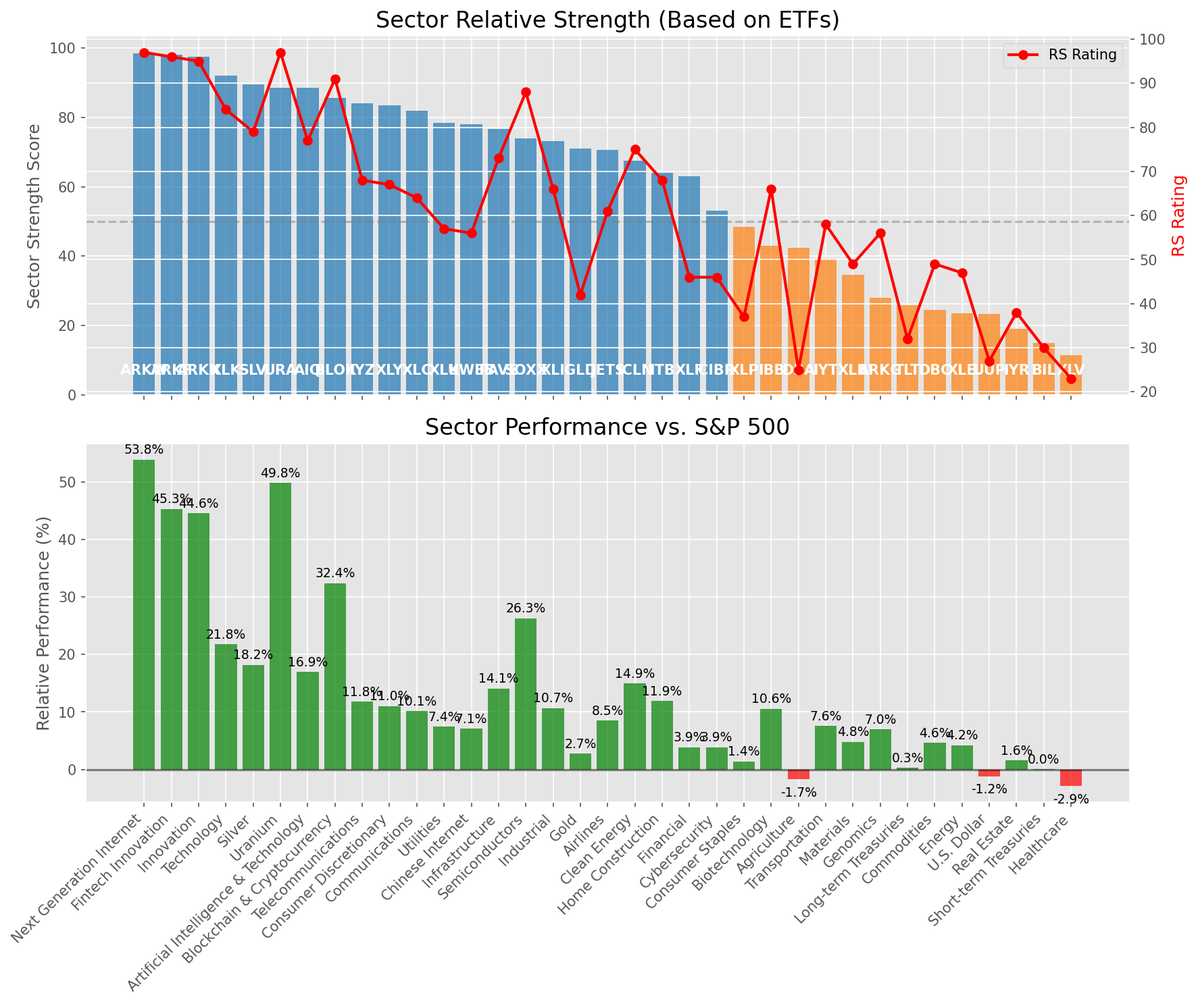
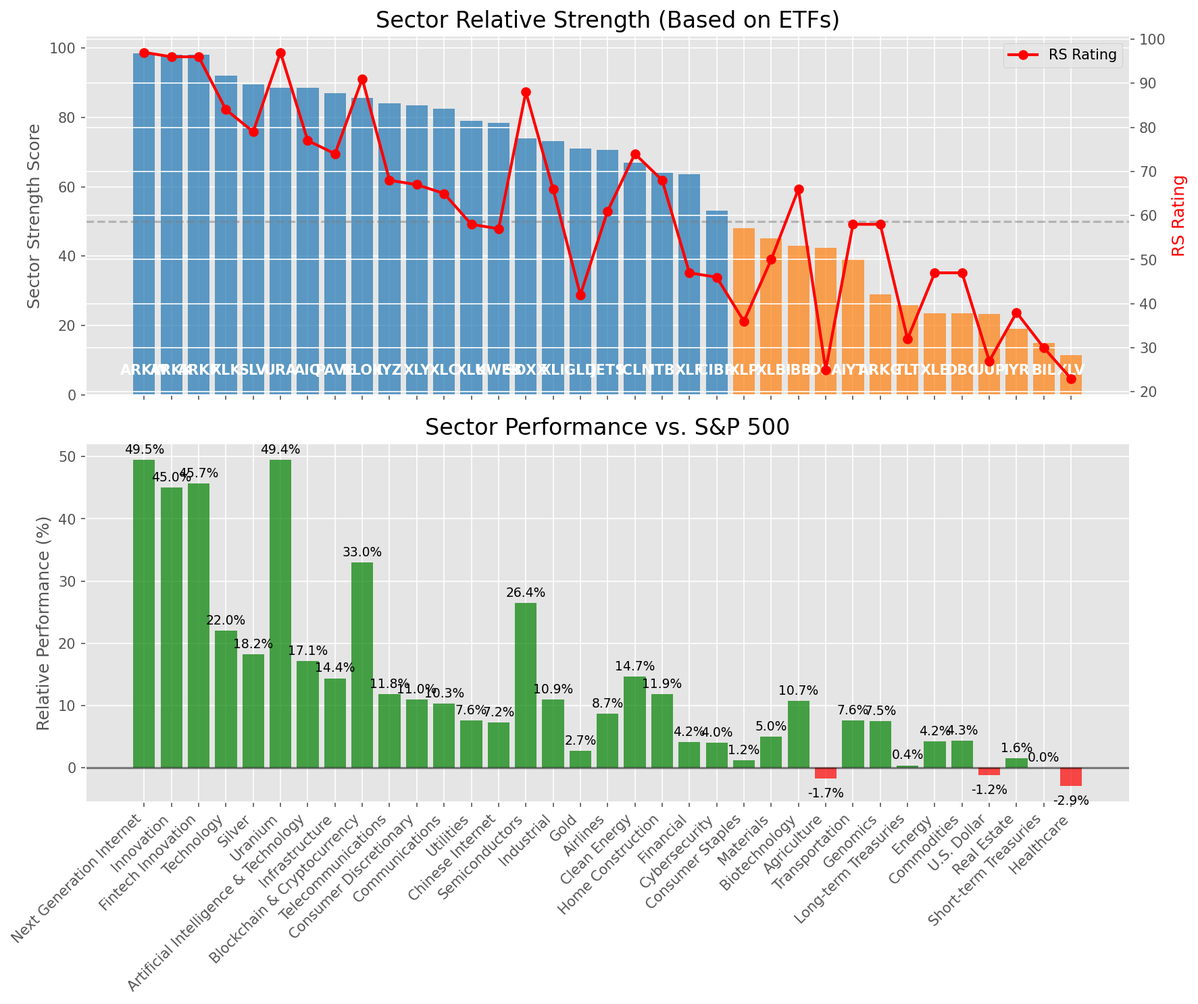
Add market report for 2025-08-08

diff --git a/oneil_relative_strength_report_2025-08-08.md b/oneil_relative_strength_report_2025-08-08.md
@@ -9,11 +9,11 @@
 | Metric | Value |
 |--------|-------|
 | **Market Valuation** | **Overvalued** |
-| **Current Ratio** | 10.31 |
+| **Current Ratio** | 10.33 |
 | **Historical Mean** | 9.66 |
 | **Standard Deviation** | 0.52 |
 | **Z-Score (StdDev from Mean)** | 1.14 |
-| **Total Market Cap** | $312.61 trillion |
+| **Total Market Cap** | $313.22 trillion |
 | **GDP** | $30.33 trillion |
 
 ## **Market Insights**
@@ -49,41 +49,41 @@ Based on William O'Neil's Relative Strength Methodology
 
 | ETF | Strength | RS Rating | Performance | Above Key MAs | Trend | Sector |
 |-----|----------|-----------|-------------|--------------|-------|--------|
-| [ARKW](https://www.tradingview.com/chart/?symbol=ARKW) | 98.5 | 97.0 | 53.84% | 10d ✓, 50d ✓, 200d ✓ | ↗ | Next Generation Internet |
-| [ARKF](https://www.tradingview.com/chart/?symbol=ARKF) | 98.0 | 96.0 | 45.30% | 10d ✓, 50d ✓, 200d ✓ | ↗ | Fintech Innovation |
-| [ARKK](https://www.tradingview.com/chart/?symbol=ARKK) | 97.5 | 95.0 | 44.55% | 10d ✓, 50d ✓, 200d ✓ | ↗ | Innovation |
-| [XLK](https://www.tradingview.com/chart/?symbol=XLK) | 92.0 | 84.0 | 21.79% | 10d ✓, 50d ✓, 200d ✓ | ↗ | Technology |
-| [SLV](https://www.tradingview.com/chart/?symbol=SLV) | 89.5 | 79.0 | 18.18% | 10d ✓, 50d ✓, 200d ✓ | ↗ | Silver |
-| [URA](https://www.tradingview.com/chart/?symbol=URA) | 88.6 | 97.0 | 49.81% | 10d ✗, 50d ✓, 200d ✓ | ↗ | Uranium |
-| [AIQ](https://www.tradingview.com/chart/?symbol=AIQ) | 88.5 | 77.0 | 16.93% | 10d ✓, 50d ✓, 200d ✓ | ↗ | Artificial Intelligence & Technology |
-| [BLOK](https://www.tradingview.com/chart/?symbol=BLOK) | 85.6 | 91.0 | 32.36% | 10d ✗, 50d ✓, 200d ✓ | ↗ | Blockchain & Cryptocurrency |
-| [IYZ](https://www.tradingview.com/chart/?symbol=IYZ) | 84.0 | 68.0 | 11.80% | 10d ✓, 50d ✓, 200d ✓ | ↗ | Telecommunications |
-| [XLY](https://www.tradingview.com/chart/?symbol=XLY) | 83.5 | 67.0 | 11.02% | 10d ✓, 50d ✓, 200d ✓ | ↗ | Consumer Discretionary |
-| [XLC](https://www.tradingview.com/chart/?symbol=XLC) | 82.0 | 64.0 | 10.12% | 10d ✓, 50d ✓, 200d ✓ | ↗ | Communications |
-| [XLU](https://www.tradingview.com/chart/?symbol=XLU) | 78.5 | 57.0 | 7.41% | 10d ✓, 50d ✓, 200d ✓ | ↗ | Utilities |
-| [KWEB](https://www.tradingview.com/chart/?symbol=KWEB) | 78.0 | 56.0 | 7.07% | 10d ✓, 50d ✓, 200d ✓ | ↗ | Chinese Internet |
-| [PAVE](https://www.tradingview.com/chart/?symbol=PAVE) | 76.6 | 73.0 | 14.07% | 10d ✗, 50d ✓, 200d ✓ | ↗ | Infrastructure |
-| [SOXX](https://www.tradingview.com/chart/?symbol=SOXX) | 74.0 | 88.0 | 26.30% | 10d ✓, 50d ✓, 200d ✓ | ↘ | Semiconductors |
-| [XLI](https://www.tradingview.com/chart/?symbol=XLI) | 73.1 | 66.0 | 10.68% | 10d ✗, 50d ✓, 200d ✓ | ↗ | Industrial |
-| [GLD](https://www.tradingview.com/chart/?symbol=GLD) | 71.0 | 42.0 | 2.73% | 10d ✓, 50d ✓, 200d ✓ | ↗ | Gold |
-| [JETS](https://www.tradingview.com/chart/?symbol=JETS) | 70.6 | 61.0 | 8.48% | 10d ✗, 50d ✓, 200d ✓ | ↗ | Airlines |
-| [ICLN](https://www.tradingview.com/chart/?symbol=ICLN) | 67.5 | 75.0 | 14.92% | 10d ✓, 50d ✓, 200d ✓ | ↘ | Clean Energy |
-| [ITB](https://www.tradingview.com/chart/?symbol=ITB) | 64.0 | 68.0 | 11.87% | 10d ✓, 50d ✓, 200d ✓ | ↘ | Home Construction |
-| [XLF](https://www.tradingview.com/chart/?symbol=XLF) | 63.1 | 46.0 | 3.86% | 10d ✗, 50d ✓, 200d ✓ | ↗ | Financial |
-| [CIBR](https://www.tradingview.com/chart/?symbol=CIBR) | 53.2 | 46.0 | 3.88% | 10d ✗, 50d ✗, 200d ✓ | ↗ | Cybersecurity |
-| [XLP](https://www.tradingview.com/chart/?symbol=XLP) | 48.5 | 37.0 | 1.41% | 10d ✓, 50d ✓, 200d ✓ | ↘ | Consumer Staples |
-| [IBB](https://www.tradingview.com/chart/?symbol=IBB) | 42.9 | 66.0 | 10.57% | 10d ✗, 50d ✓, 200d ✗ | ↘ | Biotechnology |
+| [ARKW](https://www.tradingview.com/chart/?symbol=ARKW) | 98.5 | 97.0 | 49.50% | 10d ✓, 50d ✓, 200d ✓ | ↗ | Next Generation Internet |
+| [ARKK](https://www.tradingview.com/chart/?symbol=ARKK) | 98.0 | 96.0 | 45.00% | 10d ✓, 50d ✓, 200d ✓ | ↗ | Innovation |
+| [ARKF](https://www.tradingview.com/chart/?symbol=ARKF) | 98.0 | 96.0 | 45.67% | 10d ✓, 50d ✓, 200d ✓ | ↗ | Fintech Innovation |
+| [XLK](https://www.tradingview.com/chart/?symbol=XLK) | 92.0 | 84.0 | 22.04% | 10d ✓, 50d ✓, 200d ✓ | ↗ | Technology |
+| [SLV](https://www.tradingview.com/chart/?symbol=SLV) | 89.5 | 79.0 | 18.23% | 10d ✓, 50d ✓, 200d ✓ | ↗ | Silver |
+| [URA](https://www.tradingview.com/chart/?symbol=URA) | 88.6 | 97.0 | 49.44% | 10d ✗, 50d ✓, 200d ✓ | ↗ | Uranium |
+| [AIQ](https://www.tradingview.com/chart/?symbol=AIQ) | 88.5 | 77.0 | 17.12% | 10d ✓, 50d ✓, 200d ✓ | ↗ | Artificial Intelligence & Technology |
+| [PAVE](https://www.tradingview.com/chart/?symbol=PAVE) | 87.0 | 74.0 | 14.39% | 10d ✓, 50d ✓, 200d ✓ | ↗ | Infrastructure |
+| [BLOK](https://www.tradingview.com/chart/?symbol=BLOK) | 85.6 | 91.0 | 33.01% | 10d ✗, 50d ✓, 200d ✓ | ↗ | Blockchain & Cryptocurrency |
+| [IYZ](https://www.tradingview.com/chart/?symbol=IYZ) | 84.0 | 68.0 | 11.84% | 10d ✓, 50d ✓, 200d ✓ | ↗ | Telecommunications |
+| [XLY](https://www.tradingview.com/chart/?symbol=XLY) | 83.5 | 67.0 | 11.01% | 10d ✓, 50d ✓, 200d ✓ | ↗ | Consumer Discretionary |
+| [XLC](https://www.tradingview.com/chart/?symbol=XLC) | 82.5 | 65.0 | 10.30% | 10d ✓, 50d ✓, 200d ✓ | ↗ | Communications |
+| [XLU](https://www.tradingview.com/chart/?symbol=XLU) | 79.0 | 58.0 | 7.61% | 10d ✓, 50d ✓, 200d ✓ | ↗ | Utilities |
+| [KWEB](https://www.tradingview.com/chart/?symbol=KWEB) | 78.5 | 57.0 | 7.24% | 10d ✓, 50d ✓, 200d ✓ | ↗ | Chinese Internet |
+| [SOXX](https://www.tradingview.com/chart/?symbol=SOXX) | 74.0 | 88.0 | 26.44% | 10d ✓, 50d ✓, 200d ✓ | ↘ | Semiconductors |
+| [XLI](https://www.tradingview.com/chart/?symbol=XLI) | 73.1 | 66.0 | 10.93% | 10d ✗, 50d ✓, 200d ✓ | ↗ | Industrial |
+| [GLD](https://www.tradingview.com/chart/?symbol=GLD) | 71.0 | 42.0 | 2.70% | 10d ✓, 50d ✓, 200d ✓ | ↗ | Gold |
+| [JETS](https://www.tradingview.com/chart/?symbol=JETS) | 70.6 | 61.0 | 8.73% | 10d ✗, 50d ✓, 200d ✓ | ↗ | Airlines |
+| [ICLN](https://www.tradingview.com/chart/?symbol=ICLN) | 67.0 | 74.0 | 14.67% | 10d ✓, 50d ✓, 200d ✓ | ↘ | Clean Energy |
+| [ITB](https://www.tradingview.com/chart/?symbol=ITB) | 64.0 | 68.0 | 11.89% | 10d ✓, 50d ✓, 200d ✓ | ↘ | Home Construction |
+| [XLF](https://www.tradingview.com/chart/?symbol=XLF) | 63.6 | 47.0 | 4.18% | 10d ✗, 50d ✓, 200d ✓ | ↗ | Financial |
+| [CIBR](https://www.tradingview.com/chart/?symbol=CIBR) | 53.2 | 46.0 | 4.01% | 10d ✗, 50d ✗, 200d ✓ | ↗ | Cybersecurity |
+| [XLP](https://www.tradingview.com/chart/?symbol=XLP) | 48.0 | 36.0 | 1.22% | 10d ✓, 50d ✓, 200d ✓ | ↘ | Consumer Staples |
+| [XLB](https://www.tradingview.com/chart/?symbol=XLB) | 45.1 | 50.0 | 4.99% | 10d ✓, 50d ✗, 200d ✓ | ↘ | Materials |
+| [IBB](https://www.tradingview.com/chart/?symbol=IBB) | 42.9 | 66.0 | 10.75% | 10d ✗, 50d ✓, 200d ✗ | ↘ | Biotechnology |
 | [DBA](https://www.tradingview.com/chart/?symbol=DBA) | 42.4 | 25.0 | -1.72% | 10d ✓, 50d ✗, 200d ✗ | ↗ | Agriculture |
-| [IYT](https://www.tradingview.com/chart/?symbol=IYT) | 39.2 | 58.0 | 7.57% | 10d ✗, 50d ✗, 200d ✓ | ↘ | Transportation |
-| [XLB](https://www.tradingview.com/chart/?symbol=XLB) | 34.7 | 49.0 | 4.80% | 10d ✗, 50d ✗, 200d ✓ | ↘ | Materials |
-| [ARKG](https://www.tradingview.com/chart/?symbol=ARKG) | 28.0 | 56.0 | 6.97% | 10d ✗, 50d ✗, 200d ✗ | ↘ | Genomics |
-| [TLT](https://www.tradingview.com/chart/?symbol=TLT) | 25.9 | 32.0 | 0.31% | 10d ✗, 50d ✓, 200d ✗ | ↘ | Long-term Treasuries |
-| [DBC](https://www.tradingview.com/chart/?symbol=DBC) | 24.5 | 49.0 | 4.63% | 10d ✗, 50d ✗, 200d ✗ | ↘ | Commodities |
-| [XLE](https://www.tradingview.com/chart/?symbol=XLE) | 23.5 | 47.0 | 4.20% | 10d ✗, 50d ✗, 200d ✗ | ↘ | Energy |
-| [UUP](https://www.tradingview.com/chart/?symbol=UUP) | 23.4 | 27.0 | -1.17% | 10d ✗, 50d ✓, 200d ✗ | ↘ | U.S. Dollar |
-| [IYR](https://www.tradingview.com/chart/?symbol=IYR) | 19.0 | 38.0 | 1.60% | 10d ✗, 50d ✗, 200d ✗ | ↘ | Real Estate |
+| [IYT](https://www.tradingview.com/chart/?symbol=IYT) | 39.2 | 58.0 | 7.60% | 10d ✗, 50d ✗, 200d ✓ | ↘ | Transportation |
+| [ARKG](https://www.tradingview.com/chart/?symbol=ARKG) | 29.0 | 58.0 | 7.55% | 10d ✗, 50d ✗, 200d ✗ | ↘ | Genomics |
+| [TLT](https://www.tradingview.com/chart/?symbol=TLT) | 25.9 | 32.0 | 0.40% | 10d ✗, 50d ✓, 200d ✗ | ↘ | Long-term Treasuries |
+| [XLE](https://www.tradingview.com/chart/?symbol=XLE) | 23.5 | 47.0 | 4.24% | 10d ✗, 50d ✗, 200d ✗ | ↘ | Energy |
+| [DBC](https://www.tradingview.com/chart/?symbol=DBC) | 23.5 | 47.0 | 4.32% | 10d ✗, 50d ✗, 200d ✗ | ↘ | Commodities |
+| [UUP](https://www.tradingview.com/chart/?symbol=UUP) | 23.4 | 27.0 | -1.19% | 10d ✗, 50d ✓, 200d ✗ | ↘ | U.S. Dollar |
+| [IYR](https://www.tradingview.com/chart/?symbol=IYR) | 19.0 | 38.0 | 1.58% | 10d ✗, 50d ✗, 200d ✗ | ↘ | Real Estate |
 | [BIL](https://www.tradingview.com/chart/?symbol=BIL) | 15.0 | 30.0 | 0.05% | 10d ✗, 50d ✗, 200d ✗ | ↘ | Short-term Treasuries |
-| [XLV](https://www.tradingview.com/chart/?symbol=XLV) | 11.5 | 23.0 | -2.86% | 10d ✗, 50d ✗, 200d ✗ | ↘ | Healthcare |
+| [XLV](https://www.tradingview.com/chart/?symbol=XLV) | 11.5 | 23.0 | -2.90% | 10d ✗, 50d ✗, 200d ✗ | ↘ | Healthcare |
 
 ### **Sector ETF Performance Interpretation**
 
@@ -98,160 +98,163 @@ This table shows the relative strength metrics for different market sectors base
 
 ### **Current Sector Leadership**
 
-The current market leadership is coming from the following sectors: **Next Generation Internet, Fintech Innovation, Innovation**.
+The current market leadership is coming from the following sectors: **Next Generation Internet, Innovation, Fintech Innovation**.
 
-The **Next Generation Internet** sector (represented by **ARKW**) is showing particularly strong relative strength with an RS rating of 97.0 and performance of 53.84% vs. the S&P 500. This sector is trading above its 10-day, 50-day, 200-day moving average(s). Investors should consider focusing on high RS stocks within these leading sectors for potential outperformance.
+The **Next Generation Internet** sector (represented by **ARKW**) is showing particularly strong relative strength with an RS rating of 97.0 and performance of 49.50% vs. the S&P 500. This sector is trading above its 10-day, 50-day, 200-day moving average(s). Investors should consider focusing on high RS stocks within these leading sectors for potential outperformance.
 
 ---
 
 ## **Buy Recommendations**
 
-The following 67 stocks show exceptional relative strength:
+The following 72 stocks show exceptional relative strength:
 
 | RS Rating | Buy Score | Current Price | Chart | Name | Ticker |
 |-----------|-----------|---------------|-------|------|--------|
-| 100 | 100 | $72.41 | [Chart](https://www.tradingview.com/chart/?symbol=MP) | MP Materials Corp. | MP |
-| 100 | 100 | $206.21 | [Chart](https://www.tradingview.com/chart/?symbol=CLS) | Celestica, Inc. | CLS |
-| 100 | 100 | $119.65 | [Chart](https://www.tradingview.com/chart/?symbol=CRDO) | Credo Technology Group Holding Ltd Ordinary Shares | CRDO |
-| 100 | 100 | $226.51 | [Chart](https://www.tradingview.com/chart/?symbol=LEU) | Centrus Energy Corp. | LEU |
-| 100 | 100 | $113.91 | [Chart](https://www.tradingview.com/chart/?symbol=HOOD) | Robinhood Markets, Inc. Class A Common Stock | HOOD |
-| 99 | 100 | $128.94 | [Chart](https://www.tradingview.com/chart/?symbol=RBLX) | Roblox Corporation | RBLX |
-| 99 | 100 | $62.24 | [Chart](https://www.tradingview.com/chart/?symbol=KTOS) | Kratos Defense & Security Solutions, Inc. | KTOS |
-| 98 | 100 | $185.88 | [Chart](https://www.tradingview.com/chart/?symbol=PLTR) | Palantir Technologies Inc. Class A Common Stock | PLTR |
-| 98 | 100 | $105.38 | [Chart](https://www.tradingview.com/chart/?symbol=VRNA) | Verona Pharma plc | VRNA |
-| 97 | 100 | $157.81 | [Chart](https://www.tradingview.com/chart/?symbol=ARKW) | ARK Next Generation Internet ETF | ARKW |
-| 97 | 100 | $92.92 | [Chart](https://www.tradingview.com/chart/?symbol=RYTM) | Rhythm Pharmaceuticals, Inc. Common Stock | RYTM |
-| 97 | 100 | $159.31 | [Chart](https://www.tradingview.com/chart/?symbol=FUTU) | Futu Holdings Limited American Depositary Shares | FUTU |
-| 97 | 100 | $179.29 | [Chart](https://www.tradingview.com/chart/?symbol=COOP) | Mr. Cooper Group Inc. Common Stock | COOP |
-| 97 | 100 | $121.65 | [Chart](https://www.tradingview.com/chart/?symbol=SANM) | Sanmina  Corp | SANM |
-| 96 | 100 | $94.82 | [Chart](https://www.tradingview.com/chart/?symbol=GDXU) | MicroSectors Gold Miners 3x Leveraged ETN | GDXU |
-| 96 | 100 | $23.14 | [Chart](https://www.tradingview.com/chart/?symbol=MAG) | MAG Silver Corp. | MAG |
-| 96 | 100 | $54.08 | [Chart](https://www.tradingview.com/chart/?symbol=ARKF) | ARK Fintech Innovation ETF | ARKF |
-| 95 | 100 | $258.57 | [Chart](https://www.tradingview.com/chart/?symbol=DASH) | DoorDash, Inc. Class A Common Stock | DASH |
-| 95 | 100 | $34.84 | [Chart](https://www.tradingview.com/chart/?symbol=GRPN) | Groupon, Inc.Common Stock | GRPN |
-| 95 | 100 | $65.62 | [Chart](https://www.tradingview.com/chart/?symbol=IBKR) | Interactive Brokers Group, Inc. Class A Common Stock | IBKR |
-| 94 | 100 | $57.62 | [Chart](https://www.tradingview.com/chart/?symbol=AU) | AngloGold Ashanti plc | AU |
-| 94 | 100 | $50.24 | [Chart](https://www.tradingview.com/chart/?symbol=REVG) | REV Group, Inc. | REVG |
-| 94 | 100 | $235.07 | [Chart](https://www.tradingview.com/chart/?symbol=AGX) | Argan, Inc | AGX |
-| 93 | 100 | $109.17 | [Chart](https://www.tradingview.com/chart/?symbol=APH) | Amphenol Corporation | APH |
-| 93 | 100 | $36.13 | [Chart](https://www.tradingview.com/chart/?symbol=DB) | Deutsche Bank Aktiengesellschaft | DB |
-| 92 | 100 | $453.13 | [Chart](https://www.tradingview.com/chart/?symbol=APP) | Applovin Corporation Class A Common Stock | APP |
-| 92 | 100 | $54.51 | [Chart](https://www.tradingview.com/chart/?symbol=SIL) | Global X Silver Miners ETF (NEW) | SIL |
-| 91 | 100 | $57.16 | [Chart](https://www.tradingview.com/chart/?symbol=BTI) | British American Tobacco p.l.c. American Depositary Shares, American Depositary Shares, each representing one Ordinary Share | BTI |
-| 91 | 100 | $93.15 | [Chart](https://www.tradingview.com/chart/?symbol=EBAY) | eBay Inc | EBAY |
-| 90 | 100 | $43.30 | [Chart](https://www.tradingview.com/chart/?symbol=LTM) | LATAM Airlines Group S.A. American Depositary Shares (each representing two thousand (2,000) shares of Common Stock) | LTM |
-| 89 | 100 | $97.25 | [Chart](https://www.tradingview.com/chart/?symbol=TPB) | Turning Point Brands, Inc. | TPB |
-| 89 | 100 | $30.56 | [Chart](https://www.tradingview.com/chart/?symbol=OR) | OR Royalties Inc. | OR |
-| 89 | 100 | $273.25 | [Chart](https://www.tradingview.com/chart/?symbol=GE) | GE Aerospace | GE |
-| 89 | 100 | $27.87 | [Chart](https://www.tradingview.com/chart/?symbol=KAR) | OPENLANE, Inc | KAR |
-| 88 | 100 | $40.79 | [Chart](https://www.tradingview.com/chart/?symbol=AHR) | American Healthcare REIT, Inc. | AHR |
+| 100 | 100 | $208.20 | [Chart](https://www.tradingview.com/chart/?symbol=CLS) | Celestica, Inc. | CLS |
+| 100 | 100 | $119.87 | [Chart](https://www.tradingview.com/chart/?symbol=CRDO) | Credo Technology Group Holding Ltd Ordinary Shares | CRDO |
+| 100 | 100 | $73.64 | [Chart](https://www.tradingview.com/chart/?symbol=MP) | MP Materials Corp. | MP |
+| 100 | 100 | $114.91 | [Chart](https://www.tradingview.com/chart/?symbol=HOOD) | Robinhood Markets, Inc. Class A Common Stock | HOOD |
+| 99 | 100 | $63.83 | [Chart](https://www.tradingview.com/chart/?symbol=KTOS) | Kratos Defense & Security Solutions, Inc. | KTOS |
+| 99 | 100 | $128.60 | [Chart](https://www.tradingview.com/chart/?symbol=RBLX) | Roblox Corporation | RBLX |
+| 98 | 100 | $206.24 | [Chart](https://www.tradingview.com/chart/?symbol=NET) | Cloudflare, Inc. Class A common stock, par value $0.001 per share | NET |
+| 98 | 100 | $187.21 | [Chart](https://www.tradingview.com/chart/?symbol=PLTR) | Palantir Technologies Inc. Class A Common Stock | PLTR |
+| 98 | 100 | $105.33 | [Chart](https://www.tradingview.com/chart/?symbol=VRNA) | Verona Pharma plc | VRNA |
+| 97 | 100 | $92.33 | [Chart](https://www.tradingview.com/chart/?symbol=RYTM) | Rhythm Pharmaceuticals, Inc. Common Stock | RYTM |
+| 97 | 100 | $121.66 | [Chart](https://www.tradingview.com/chart/?symbol=SANM) | Sanmina  Corp | SANM |
+| 97 | 100 | $159.76 | [Chart](https://www.tradingview.com/chart/?symbol=FUTU) | Futu Holdings Limited American Depositary Shares | FUTU |
+| 97 | 100 | $178.50 | [Chart](https://www.tradingview.com/chart/?symbol=COOP) | Mr. Cooper Group Inc. Common Stock | COOP |
+| 97 | 100 | $158.46 | [Chart](https://www.tradingview.com/chart/?symbol=ARKW) | ARK Next Generation Internet ETF | ARKW |
+| 96 | 100 | $94.34 | [Chart](https://www.tradingview.com/chart/?symbol=GDXU) | MicroSectors Gold Miners 3x Leveraged ETN | GDXU |
+| 96 | 100 | $23.22 | [Chart](https://www.tradingview.com/chart/?symbol=MAG) | MAG Silver Corp. | MAG |
+| 96 | 100 | $54.22 | [Chart](https://www.tradingview.com/chart/?symbol=ARKF) | ARK Fintech Innovation ETF | ARKF |
+| 96 | 100 | $225.92 | [Chart](https://www.tradingview.com/chart/?symbol=JBL) | Jabil Inc. | JBL |
+| 95 | 100 | $50.59 | [Chart](https://www.tradingview.com/chart/?symbol=REVG) | REV Group, Inc. | REVG |
+| 95 | 100 | $258.01 | [Chart](https://www.tradingview.com/chart/?symbol=DASH) | DoorDash, Inc. Class A Common Stock | DASH |
+| 95 | 100 | $65.99 | [Chart](https://www.tradingview.com/chart/?symbol=IBKR) | Interactive Brokers Group, Inc. Class A Common Stock | IBKR |
+| 94 | 100 | $237.62 | [Chart](https://www.tradingview.com/chart/?symbol=AGX) | Argan, Inc | AGX |
+| 94 | 100 | $33.95 | [Chart](https://www.tradingview.com/chart/?symbol=GRPN) | Groupon, Inc.Common Stock | GRPN |
+| 93 | 100 | $461.51 | [Chart](https://www.tradingview.com/chart/?symbol=APP) | Applovin Corporation Class A Common Stock | APP |
+| 93 | 100 | $109.88 | [Chart](https://www.tradingview.com/chart/?symbol=APH) | Amphenol Corporation | APH |
+| 93 | 100 | $36.27 | [Chart](https://www.tradingview.com/chart/?symbol=DB) | Deutsche Bank Aktiengesellschaft | DB |
+| 93 | 100 | $57.26 | [Chart](https://www.tradingview.com/chart/?symbol=AU) | AngloGold Ashanti plc | AU |
+| 92 | 100 | $56.83 | [Chart](https://www.tradingview.com/chart/?symbol=CALX) | CALIX, INC. | CALX |
+| 92 | 100 | $54.59 | [Chart](https://www.tradingview.com/chart/?symbol=SIL) | Global X Silver Miners ETF (NEW) | SIL |
+| 91 | 100 | $57.09 | [Chart](https://www.tradingview.com/chart/?symbol=BTI) | British American Tobacco p.l.c. American Depositary Shares, American Depositary Shares, each representing one Ordinary Share | BTI |
+| 91 | 100 | $93.14 | [Chart](https://www.tradingview.com/chart/?symbol=EBAY) | eBay Inc | EBAY |
+| 91 | 100 | $20.18 | [Chart](https://www.tradingview.com/chart/?symbol=LQDA) | Liquidia Corporation Common Stock | LQDA |
+| 90 | 100 | $30.67 | [Chart](https://www.tradingview.com/chart/?symbol=OR) | OR Royalties Inc. | OR |
+| 90 | 100 | $28.07 | [Chart](https://www.tradingview.com/chart/?symbol=KAR) | OPENLANE, Inc | KAR |
+| 90 | 100 | $93.20 | [Chart](https://www.tradingview.com/chart/?symbol=C) | Citigroup Inc. | C |
+| 90 | 100 | $43.36 | [Chart](https://www.tradingview.com/chart/?symbol=LTM) | LATAM Airlines Group S.A. American Depositary Shares (each representing two thousand (2,000) shares of Common Stock) | LTM |
+| 89 | 100 | $274.31 | [Chart](https://www.tradingview.com/chart/?symbol=GE) | GE Aerospace | GE |
+| 89 | 100 | $53.69 | [Chart](https://www.tradingview.com/chart/?symbol=GH) | Guardant Health, Inc. Common Stock | GH |
+| 88 | 100 | $40.75 | [Chart](https://www.tradingview.com/chart/?symbol=AHR) | American Healthcare REIT, Inc. | AHR |
+| 88 | 100 | $96.19 | [Chart](https://www.tradingview.com/chart/?symbol=TPB) | Turning Point Brands, Inc. | TPB |
 | 87 | 100 | $265.98 | [Chart](https://www.tradingview.com/chart/?symbol=IDCC) | InterDigital, Inc. | IDCC |
-| 89 | 99 | $19.75 | [Chart](https://www.tradingview.com/chart/?symbol=LQDA) | Liquidia Corporation Common Stock | LQDA |
-| 87 | 98 | $52.39 | [Chart](https://www.tradingview.com/chart/?symbol=GH) | Guardant Health, Inc. Common Stock | GH |
-| 87 | 98 | $31.93 | [Chart](https://www.tradingview.com/chart/?symbol=PAAS) | Pan American Silver Corp. | PAAS |
-| 87 | 98 | $35.62 | [Chart](https://www.tradingview.com/chart/?symbol=ATAT) | Atour Lifestyle Holdings Limited American Depositary Shares | ATAT |
-| 86 | 98 | $43.62 | [Chart](https://www.tradingview.com/chart/?symbol=FROG) | JFrog Ltd. Ordinary Shares | FROG |
-| 85 | 98 | $101.65 | [Chart](https://www.tradingview.com/chart/?symbol=WPM) | Wheaton Precious Metals Corp. Common Stock | WPM |
-| 84 | 98 | $19.94 | [Chart](https://www.tradingview.com/chart/?symbol=BCS) | Barclays PLC | BCS |
-| 86 | 97 | $26.57 | [Chart](https://www.tradingview.com/chart/?symbol=TFPM) | Triple Flag Precious Metals Corp. | TFPM |
-| 84 | 97 | $120.07 | [Chart](https://www.tradingview.com/chart/?symbol=GILD) | Gilead Sciences Inc | GILD |
-| 86 | 96 | $188.25 | [Chart](https://www.tradingview.com/chart/?symbol=AWI) | Armstrong World Industries, Inc. | AWI |
-| 86 | 96 | $263.31 | [Chart](https://www.tradingview.com/chart/?symbol=WTS) | Watts Water Technologies, Inc. Class A | WTS |
-| 86 | 96 | $18.32 | [Chart](https://www.tradingview.com/chart/?symbol=BVN) | Compania de Minas Buenaventura S.A. | BVN |
-| 86 | 96 | $65.61 | [Chart](https://www.tradingview.com/chart/?symbol=MAIN) | Main Street Capital Corporation | MAIN |
+| 89 | 99 | $725.88 | [Chart](https://www.tradingview.com/chart/?symbol=GS) | Goldman Sachs Group Inc. | GS |
+| 85 | 99 | $20.00 | [Chart](https://www.tradingview.com/chart/?symbol=BCS) | Barclays PLC | BCS |
+| 87 | 98 | $35.48 | [Chart](https://www.tradingview.com/chart/?symbol=ATAT) | Atour Lifestyle Holdings Limited American Depositary Shares | ATAT |
+| 87 | 98 | $32.05 | [Chart](https://www.tradingview.com/chart/?symbol=PAAS) | Pan American Silver Corp. | PAAS |
+| 86 | 98 | $43.92 | [Chart](https://www.tradingview.com/chart/?symbol=FROG) | JFrog Ltd. Ordinary Shares | FROG |
+| 85 | 98 | $101.41 | [Chart](https://www.tradingview.com/chart/?symbol=WPM) | Wheaton Precious Metals Corp. Common Stock | WPM |
+| 87 | 97 | $18.35 | [Chart](https://www.tradingview.com/chart/?symbol=BVN) | Compania de Minas Buenaventura S.A. | BVN |
+| 84 | 97 | $119.38 | [Chart](https://www.tradingview.com/chart/?symbol=GILD) | Gilead Sciences Inc | GILD |
+| 86 | 96 | $262.87 | [Chart](https://www.tradingview.com/chart/?symbol=WTS) | Watts Water Technologies, Inc. Class A | WTS |
+| 86 | 96 | $188.27 | [Chart](https://www.tradingview.com/chart/?symbol=AWI) | Armstrong World Industries, Inc. | AWI |
+| 86 | 96 | $65.64 | [Chart](https://www.tradingview.com/chart/?symbol=MAIN) | Main Street Capital Corporation | MAIN |
+| 85 | 96 | $26.43 | [Chart](https://www.tradingview.com/chart/?symbol=TFPM) | Triple Flag Precious Metals Corp. | TFPM |
 | 85 | 96 | $246.00 | [Chart](https://www.tradingview.com/chart/?symbol=BAP) | Credicorp LTD | BAP |
-| 85 | 96 | $115.52 | [Chart](https://www.tradingview.com/chart/?symbol=SXT) | Sensient Technology Corporation | SXT |
-| 84 | 96 | $837.88 | [Chart](https://www.tradingview.com/chart/?symbol=AXON) | Axon Enterprise, Inc. Common Stock | AXON |
-| 85 | 95 | $96.90 | [Chart](https://www.tradingview.com/chart/?symbol=NDAQ) | Nasdaq, Inc. Common Stock | NDAQ |
-| 83 | 95 | $103.49 | [Chart](https://www.tradingview.com/chart/?symbol=BK) | Bank of New York Mellon Corporation | BK |
-| 82 | 94 | $71.78 | [Chart](https://www.tradingview.com/chart/?symbol=CSCO) | Cisco Systems, Inc. Common Stock (DE) | CSCO |
-| 83 | 93 | $48.08 | [Chart](https://www.tradingview.com/chart/?symbol=FAST) | Fastenal Co | FAST |
-| 83 | 93 | $193.19 | [Chart](https://www.tradingview.com/chart/?symbol=ASND) | Ascendis Pharma A/S American Depositary Shares | ASND |
-| 81 | 93 | $58.46 | [Chart](https://www.tradingview.com/chart/?symbol=GDX) | VanEck Gold Miners ETF | GDX |
-| 81 | 93 | $152.74 | [Chart](https://www.tradingview.com/chart/?symbol=VSEC) | VSE Corp | VSEC |
-| 80 | 93 | $136.46 | [Chart](https://www.tradingview.com/chart/?symbol=AEM) | Agnico Eagle Mines Ltd. | AEM |
-| 82 | 92 | $24.39 | [Chart](https://www.tradingview.com/chart/?symbol=ING) | ING Groep N.V. American Depositary Shares | ING |
-| 81 | 92 | $308.25 | [Chart](https://www.tradingview.com/chart/?symbol=PODD) | Insulet Corporation | PODD |
-| 81 | 92 | $229.34 | [Chart](https://www.tradingview.com/chart/?symbol=BA) | Boeing Company | BA |
-| 81 | 91 | $13.03 | [Chart](https://www.tradingview.com/chart/?symbol=PSLV) | Sprott Physical Silver Trust | PSLV |
-| 81 | 91 | $51.04 | [Chart](https://www.tradingview.com/chart/?symbol=FHI) | Federated Hermes, Inc. | FHI |
-| 80 | 91 | $116.88 | [Chart](https://www.tradingview.com/chart/?symbol=SPMO) | Invesco S&P 500 Momentum ETF | SPMO |
-| 80 | 91 | $25.93 | [Chart](https://www.tradingview.com/chart/?symbol=PUK) | PRUDENTIAL PLC ADS (REP 2 ORD SHARES) | PUK |
+| 84 | 96 | $103.87 | [Chart](https://www.tradingview.com/chart/?symbol=BK) | Bank of New York Mellon Corporation | BK |
+| 84 | 96 | $839.55 | [Chart](https://www.tradingview.com/chart/?symbol=AXON) | Axon Enterprise, Inc. Common Stock | AXON |
+| 85 | 95 | $97.24 | [Chart](https://www.tradingview.com/chart/?symbol=NDAQ) | Nasdaq, Inc. Common Stock | NDAQ |
+| 83 | 95 | $153.82 | [Chart](https://www.tradingview.com/chart/?symbol=VSEC) | VSE Corp | VSEC |
+| 83 | 94 | $115.50 | [Chart](https://www.tradingview.com/chart/?symbol=SXT) | Sensient Technology Corporation | SXT |
+| 82 | 94 | $71.75 | [Chart](https://www.tradingview.com/chart/?symbol=CSCO) | Cisco Systems, Inc. Common Stock (DE) | CSCO |
+| 83 | 93 | $48.10 | [Chart](https://www.tradingview.com/chart/?symbol=FAST) | Fastenal Co | FAST |
+| 83 | 93 | $24.44 | [Chart](https://www.tradingview.com/chart/?symbol=ING) | ING Groep N.V. American Depositary Shares | ING |
+| 82 | 93 | $230.19 | [Chart](https://www.tradingview.com/chart/?symbol=BA) | Boeing Company | BA |
+| 81 | 93 | $58.40 | [Chart](https://www.tradingview.com/chart/?symbol=GDX) | VanEck Gold Miners ETF | GDX |
+| 80 | 93 | $136.31 | [Chart](https://www.tradingview.com/chart/?symbol=AEM) | Agnico Eagle Mines Ltd. | AEM |
+| 81 | 92 | $308.19 | [Chart](https://www.tradingview.com/chart/?symbol=PODD) | Insulet Corporation | PODD |
+| 81 | 91 | $190.67 | [Chart](https://www.tradingview.com/chart/?symbol=ASND) | Ascendis Pharma A/S American Depositary Shares | ASND |
+| 81 | 91 | $51.02 | [Chart](https://www.tradingview.com/chart/?symbol=FHI) | Federated Hermes, Inc. | FHI |
+| 81 | 91 | $13.01 | [Chart](https://www.tradingview.com/chart/?symbol=PSLV) | Sprott Physical Silver Trust | PSLV |
+| 80 | 91 | $117.19 | [Chart](https://www.tradingview.com/chart/?symbol=SPMO) | Invesco S&P 500 Momentum ETF | SPMO |
+| 80 | 91 | $25.98 | [Chart](https://www.tradingview.com/chart/?symbol=PUK) | PRUDENTIAL PLC ADS (REP 2 ORD SHARES) | PUK |
+| 80 | 90 | $31.96 | [Chart](https://www.tradingview.com/chart/?symbol=IIIV) | i3 Verticals, Inc. Class A Common Stock | IIIV |
 
 ---
 
 
 ## **Sell Recommendations**
 
-The following 65 stocks show deteriorating relative strength:
+The following 63 stocks show deteriorating relative strength:
 
 | RS Rating | Sell Score | Current Price | Chart | Name | Ticker |
 |-----------|------------|---------------|-------|------|--------|
-| 1 | 100 | $11.62 | [Chart](https://www.tradingview.com/chart/?symbol=NVDS) | Investment Managers Series Trust II Tradr 1.5X Short NVDA Daily ETF | NVDS |
-| 1 | 100 | $23.37 | [Chart](https://www.tradingview.com/chart/?symbol=TECS) | Direxion Daily Technology Bear 3x Shares | TECS |
-| 2 | 100 | $13.63 | [Chart](https://www.tradingview.com/chart/?symbol=CLBT) | Cellebrite DI Ltd. Class A Ordinary Shares | CLBT |
-| 2 | 100 | $17.32 | [Chart](https://www.tradingview.com/chart/?symbol=DJT) | Trump Media & Technology Group Corp. Common Stock | DJT |
-| 3 | 100 | $22.58 | [Chart](https://www.tradingview.com/chart/?symbol=ZSL) | ProShares UltraShort Silver | ZSL |
-| 6 | 100 | $41.62 | [Chart](https://www.tradingview.com/chart/?symbol=SDOW) | ProShares UltraPro Short Dow 30 | SDOW |
-| 6 | 100 | $25.44 | [Chart](https://www.tradingview.com/chart/?symbol=TBBB) | BBB Foods Inc. | TBBB |
-| 6 | 100 | $22.03 | [Chart](https://www.tradingview.com/chart/?symbol=HELE) | Helen Of Troy Ltd | HELE |
-| 6 | 100 | $23.19 | [Chart](https://www.tradingview.com/chart/?symbol=CRTO) | Criteo S.A. | CRTO |
-| 8 | 100 | $40.47 | [Chart](https://www.tradingview.com/chart/?symbol=BILL) | BILL Holdings, Inc. | BILL |
-| 8 | 100 | $36.28 | [Chart](https://www.tradingview.com/chart/?symbol=LZB) | La-Z-Boy Incorporated | LZB |
-| 10 | 100 | $24.34 | [Chart](https://www.tradingview.com/chart/?symbol=DXD) | ProShares UltraShort Dow 30 | DXD |
-| 11 | 100 | $38.83 | [Chart](https://www.tradingview.com/chart/?symbol=SH) | ProShares Short S&P500 | SH |
+| 1 | 100 | $23.23 | [Chart](https://www.tradingview.com/chart/?symbol=TECS) | Direxion Daily Technology Bear 3x Shares | TECS |
+| 1 | 100 | $11.55 | [Chart](https://www.tradingview.com/chart/?symbol=NVDS) | Investment Managers Series Trust II Tradr 1.5X Short NVDA Daily ETF | NVDS |
+| 2 | 100 | $13.62 | [Chart](https://www.tradingview.com/chart/?symbol=CLBT) | Cellebrite DI Ltd. Class A Ordinary Shares | CLBT |
+| 2 | 100 | $17.41 | [Chart](https://www.tradingview.com/chart/?symbol=DJT) | Trump Media & Technology Group Corp. Common Stock | DJT |
+| 3 | 100 | $22.70 | [Chart](https://www.tradingview.com/chart/?symbol=ZSL) | ProShares UltraShort Silver | ZSL |
+| 6 | 100 | $41.44 | [Chart](https://www.tradingview.com/chart/?symbol=SDOW) | ProShares UltraPro Short Dow 30 | SDOW |
+| 6 | 100 | $21.76 | [Chart](https://www.tradingview.com/chart/?symbol=HELE) | Helen Of Troy Ltd | HELE |
+| 7 | 100 | $23.86 | [Chart](https://www.tradingview.com/chart/?symbol=CRTO) | Criteo S.A. | CRTO |
+| 8 | 100 | $36.16 | [Chart](https://www.tradingview.com/chart/?symbol=LZB) | La-Z-Boy Incorporated | LZB |
+| 8 | 100 | $40.52 | [Chart](https://www.tradingview.com/chart/?symbol=BILL) | BILL Holdings, Inc. | BILL |
+| 10 | 100 | $24.27 | [Chart](https://www.tradingview.com/chart/?symbol=DXD) | ProShares UltraShort Dow 30 | DXD |
+| 11 | 100 | $38.78 | [Chart](https://www.tradingview.com/chart/?symbol=SH) | ProShares Short S&P500 | SH |
+| 12 | 100 | $25.53 | [Chart](https://www.tradingview.com/chart/?symbol=TBBB) | BBB Foods Inc. | TBBB |
 | 15 | 100 | $16.43 | [Chart](https://www.tradingview.com/chart/?symbol=CTO) | CTO Realty Growth, Inc. | CTO |
-| 15 | 100 | $31.38 | [Chart](https://www.tradingview.com/chart/?symbol=JD) | JD.com, Inc. | JD |
-| 2 | 99 | $37.38 | [Chart](https://www.tradingview.com/chart/?symbol=INTA) | Intapp, Inc. Common Stock | INTA |
-| 7 | 99 | $16.29 | [Chart](https://www.tradingview.com/chart/?symbol=S) | SentinelOne, Inc. | S |
-| 8 | 99 | $221.15 | [Chart](https://www.tradingview.com/chart/?symbol=WDAY) | Workday, Inc. Class A Common Stock | WDAY |
-| 9 | 99 | $12.72 | [Chart](https://www.tradingview.com/chart/?symbol=EWTX) | Edgewise Therapeutics, Inc. Common Stock | EWTX |
-| 9 | 97 | $19.82 | [Chart](https://www.tradingview.com/chart/?symbol=GAP) | The Gap, Inc. | GAP |
-| 13 | 95 | $12.52 | [Chart](https://www.tradingview.com/chart/?symbol=CCRN) | Cross Country Healthcare Inc | CCRN |
-| 7 | 94 | $29.66 | [Chart](https://www.tradingview.com/chart/?symbol=SMPL) | The Simply Good Foods Company Common Stock | SMPL |
-| 14 | 94 | $30.67 | [Chart](https://www.tradingview.com/chart/?symbol=WGO) | Winnebago Industries, Inc. | WGO |
-| 20 | 94 | $16.43 | [Chart](https://www.tradingview.com/chart/?symbol=UMH) | UMH Properties, Inc. | UMH |
-| 11 | 93 | $18.40 | [Chart](https://www.tradingview.com/chart/?symbol=LOVE) | The Lovesac Company Common Stock | LOVE |
+| 15 | 100 | $31.36 | [Chart](https://www.tradingview.com/chart/?symbol=JD) | JD.com, Inc. | JD |
+| 7 | 99 | $16.23 | [Chart](https://www.tradingview.com/chart/?symbol=S) | SentinelOne, Inc. | S |
+| 9 | 99 | $12.76 | [Chart](https://www.tradingview.com/chart/?symbol=EWTX) | Edgewise Therapeutics, Inc. Common Stock | EWTX |
+| 2 | 98 | $37.16 | [Chart](https://www.tradingview.com/chart/?symbol=INTA) | Intapp, Inc. Common Stock | INTA |
+| 8 | 98 | $221.21 | [Chart](https://www.tradingview.com/chart/?symbol=WDAY) | Workday, Inc. Class A Common Stock | WDAY |
+| 9 | 97 | $19.80 | [Chart](https://www.tradingview.com/chart/?symbol=GAP) | The Gap, Inc. | GAP |
+| 13 | 95 | $30.60 | [Chart](https://www.tradingview.com/chart/?symbol=WGO) | Winnebago Industries, Inc. | WGO |
+| 7 | 94 | $29.70 | [Chart](https://www.tradingview.com/chart/?symbol=SMPL) | The Simply Good Foods Company Common Stock | SMPL |
 | 11 | 93 | $14.72 | [Chart](https://www.tradingview.com/chart/?symbol=PLSE) | Pulse Biosciences, Inc Common Stock (DE) | PLSE |
-| 12 | 93 | $34.51 | [Chart](https://www.tradingview.com/chart/?symbol=AMH) | AMERICAN HOMES 4 RENT | AMH |
-| 10 | 91 | $141.14 | [Chart](https://www.tradingview.com/chart/?symbol=MAA) | Mid-America Apartment Communities, Inc. | MAA |
-| 12 | 91 | $28.41 | [Chart](https://www.tradingview.com/chart/?symbol=BBWI) | Bath & Body Works, Inc. | BBWI |
-| 13 | 91 | $35.79 | [Chart](https://www.tradingview.com/chart/?symbol=PBA) | PEMBINA PIPELINE CORPORATION | PBA |
+| 14 | 93 | $12.57 | [Chart](https://www.tradingview.com/chart/?symbol=CCRN) | Cross Country Healthcare Inc | CCRN |
+| 19 | 93 | $22.33 | [Chart](https://www.tradingview.com/chart/?symbol=CURB) | Curbline Properties Corp. | CURB |
+| 20 | 93 | $16.46 | [Chart](https://www.tradingview.com/chart/?symbol=UMH) | UMH Properties, Inc. | UMH |
+| 12 | 92 | $34.59 | [Chart](https://www.tradingview.com/chart/?symbol=AMH) | AMERICAN HOMES 4 RENT | AMH |
+| 10 | 91 | $141.12 | [Chart](https://www.tradingview.com/chart/?symbol=MAA) | Mid-America Apartment Communities, Inc. | MAA |
 | 17 | 91 | $18.54 | [Chart](https://www.tradingview.com/chart/?symbol=AVBP) | ArriVent BioPharma, Inc. Common Stock | AVBP |
-| 17 | 91 | $25.89 | [Chart](https://www.tradingview.com/chart/?symbol=FCPT) | Four Corners Property Trust, Inc. | FCPT |
-| 19 | 91 | $13.07 | [Chart](https://www.tradingview.com/chart/?symbol=GOOD) | Gladstone Commercial Corporation - REIT | GOOD |
-| 19 | 90 | $55.32 | [Chart](https://www.tradingview.com/chart/?symbol=HRB) | H&R Block, Inc. | HRB |
-| 14 | 89 | $48.13 | [Chart](https://www.tradingview.com/chart/?symbol=BIRK) | Birkenstock Holding plc | BIRK |
-| 22 | 89 | $22.57 | [Chart](https://www.tradingview.com/chart/?symbol=CURB) | Curbline Properties Corp. | CURB |
-| 22 | 87 | $37.40 | [Chart](https://www.tradingview.com/chart/?symbol=VNO) | Vornado Realty Trust | VNO |
-| 24 | 86 | $48.22 | [Chart](https://www.tradingview.com/chart/?symbol=FR) | First Industrial Realty Trust, Inc. | FR |
-| 25 | 86 | $11.78 | [Chart](https://www.tradingview.com/chart/?symbol=NVG) | Nuveen AMT-Free Municipal Credit Income Fund | NVG |
+| 17 | 91 | $25.90 | [Chart](https://www.tradingview.com/chart/?symbol=FCPT) | Four Corners Property Trust, Inc. | FCPT |
+| 19 | 91 | $13.11 | [Chart](https://www.tradingview.com/chart/?symbol=GOOD) | Gladstone Commercial Corporation - REIT | GOOD |
+| 12 | 90 | $28.52 | [Chart](https://www.tradingview.com/chart/?symbol=BBWI) | Bath & Body Works, Inc. | BBWI |
+| 19 | 90 | $55.29 | [Chart](https://www.tradingview.com/chart/?symbol=HRB) | H&R Block, Inc. | HRB |
+| 14 | 88 | $48.08 | [Chart](https://www.tradingview.com/chart/?symbol=BIRK) | Birkenstock Holding plc | BIRK |
+| 21 | 88 | $37.21 | [Chart](https://www.tradingview.com/chart/?symbol=VNO) | Vornado Realty Trust | VNO |
+| 24 | 86 | $48.24 | [Chart](https://www.tradingview.com/chart/?symbol=FR) | First Industrial Realty Trust, Inc. | FR |
 | 21 | 85 | $12.10 | [Chart](https://www.tradingview.com/chart/?symbol=WSR) | Whitestone REIT | WSR |
-| 21 | 85 | $12.32 | [Chart](https://www.tradingview.com/chart/?symbol=NU) | Nu Holdings Ltd. | NU |
-| 19 | 84 | $12.04 | [Chart](https://www.tradingview.com/chart/?symbol=PMT) | PennyMac Mortgage Investment Trust | PMT |
-| 26 | 83 | $68.49 | [Chart](https://www.tradingview.com/chart/?symbol=BBY) | Best Buy Company, Inc. | BBY |
-| 18 | 82 | $29.11 | [Chart](https://www.tradingview.com/chart/?symbol=CNX) | CNX Resources Corporation | CNX |
-| 18 | 82 | $10.13 | [Chart](https://www.tradingview.com/chart/?symbol=BRKL) | Brookline Bancorp Inc | BRKL |
-| 28 | 82 | $10.95 | [Chart](https://www.tradingview.com/chart/?symbol=PUBM) | PubMatic, Inc. Class A Common Stock | PUBM |
-| 23 | 81 | $27.17 | [Chart](https://www.tradingview.com/chart/?symbol=IVT) | InvenTrust Properties Corp. | IVT |
-| 24 | 78 | $61.09 | [Chart](https://www.tradingview.com/chart/?symbol=UL) | Unilever plc | UL |
-| 28 | 78 | $87.02 | [Chart](https://www.tradingview.com/chart/?symbol=BIDU) | Baidu, Inc. | BIDU |
-| 34 | 78 | $45.45 | [Chart](https://www.tradingview.com/chart/?symbol=SON) | Sonoco Products Company | SON |
+| 25 | 85 | $11.77 | [Chart](https://www.tradingview.com/chart/?symbol=NVG) | Nuveen AMT-Free Municipal Credit Income Fund | NVG |
+| 19 | 84 | $12.02 | [Chart](https://www.tradingview.com/chart/?symbol=PMT) | PennyMac Mortgage Investment Trust | PMT |
+| 17 | 83 | $29.09 | [Chart](https://www.tradingview.com/chart/?symbol=CNX) | CNX Resources Corporation | CNX |
+| 22 | 83 | $12.37 | [Chart](https://www.tradingview.com/chart/?symbol=NU) | Nu Holdings Ltd. | NU |
+| 26 | 83 | $68.44 | [Chart](https://www.tradingview.com/chart/?symbol=BBY) | Best Buy Company, Inc. | BBY |
+| 27 | 83 | $10.87 | [Chart](https://www.tradingview.com/chart/?symbol=PUBM) | PubMatic, Inc. Class A Common Stock | PUBM |
+| 23 | 81 | $27.12 | [Chart](https://www.tradingview.com/chart/?symbol=IVT) | InvenTrust Properties Corp. | IVT |
+| 28 | 80 | $10.19 | [Chart](https://www.tradingview.com/chart/?symbol=NMCO) | Nuveen Municipal Credit Opportunities Fund | NMCO |
+| 28 | 78 | $51.22 | [Chart](https://www.tradingview.com/chart/?symbol=LW) | Lamb Weston Holdings, Inc. | LW |
+| 34 | 78 | $45.43 | [Chart](https://www.tradingview.com/chart/?symbol=SON) | Sonoco Products Company | SON |
+| 24 | 77 | $61.01 | [Chart](https://www.tradingview.com/chart/?symbol=UL) | Unilever plc | UL |
+| 24 | 77 | $33.97 | [Chart](https://www.tradingview.com/chart/?symbol=FFIN) | First Financial Bankshares Inc | FFIN |
 | 27 | 77 | $23.55 | [Chart](https://www.tradingview.com/chart/?symbol=FFBC) | First Financial Bancorp | FFBC |
-| 32 | 77 | $12.34 | [Chart](https://www.tradingview.com/chart/?symbol=RQI) | COHEN & STEERS QUALITY INCOME REALTY FUND, INC. COMMON SHARES | RQI |
-| 36 | 77 | $22.38 | [Chart](https://www.tradingview.com/chart/?symbol=BUSE) | First Busey Corporation Class A Common Stock | BUSE |
-| 30 | 76 | $51.41 | [Chart](https://www.tradingview.com/chart/?symbol=LW) | Lamb Weston Holdings, Inc. | LW |
-| 33 | 74 | $98.93 | [Chart](https://www.tradingview.com/chart/?symbol=UFPI) | UFP Industries, Inc. Common Stock | UFPI |
-| 30 | 73 | $23.31 | [Chart](https://www.tradingview.com/chart/?symbol=IBTF) | iShares iBonds Dec 2025 Term Treasury ETF | IBTF |
-| 32 | 72 | $30.77 | [Chart](https://www.tradingview.com/chart/?symbol=FLRN) | SPDR Bloomberg Investment Grade Floating Rate ETF | FLRN |
+| 32 | 77 | $12.35 | [Chart](https://www.tradingview.com/chart/?symbol=RQI) | COHEN & STEERS QUALITY INCOME REALTY FUND, INC. COMMON SHARES | RQI |
+| 35 | 76 | $96.25 | [Chart](https://www.tradingview.com/chart/?symbol=RWR) | SPDR Dow Jones REIT ETF | RWR |
+| 38 | 75 | $22.45 | [Chart](https://www.tradingview.com/chart/?symbol=BUSE) | First Busey Corporation Class A Common Stock | BUSE |
+| 34 | 73 | $99.18 | [Chart](https://www.tradingview.com/chart/?symbol=UFPI) | UFP Industries, Inc. Common Stock | UFPI |
+| 30 | 72 | $23.31 | [Chart](https://www.tradingview.com/chart/?symbol=IBTF) | iShares iBonds Dec 2025 Term Treasury ETF | IBTF |
+| 31 | 72 | $30.77 | [Chart](https://www.tradingview.com/chart/?symbol=FLRN) | SPDR Bloomberg Investment Grade Floating Rate ETF | FLRN |
 | 34 | 72 | $24.12 | [Chart](https://www.tradingview.com/chart/?symbol=FLBL) | Franklin Senior Loan ETF | FLBL |
-| 35 | 72 | $89.44 | [Chart](https://www.tradingview.com/chart/?symbol=VNQ) | Vanguard Real Estate ETF | VNQ |
-| 35 | 72 | $96.50 | [Chart](https://www.tradingview.com/chart/?symbol=RWR) | SPDR Dow Jones REIT ETF | RWR |
+| 35 | 72 | $89.43 | [Chart](https://www.tradingview.com/chart/?symbol=VNQ) | Vanguard Real Estate ETF | VNQ |
 | 29 | 71 | $37.07 | [Chart](https://www.tradingview.com/chart/?symbol=FRME) | First Merchants Corp | FRME |
-| 38 | 70 | $44.24 | [Chart](https://www.tradingview.com/chart/?symbol=EPI) | WisdomTree India Earnings Fund ETF | EPI |
-| 37 | 69 | $14.81 | [Chart](https://www.tradingview.com/chart/?symbol=RYLD) | Global X Russell 2000 Covered Call ETF | RYLD |
-| 37 | 65 | $56.05 | [Chart](https://www.tradingview.com/chart/?symbol=ALRM) | Alarm.com Holdings, Inc. | ALRM |
-| 39 | 64 | $147.72 | [Chart](https://www.tradingview.com/chart/?symbol=QCOM) | Qualcomm Inc | QCOM |
+| 38 | 70 | $44.27 | [Chart](https://www.tradingview.com/chart/?symbol=EPI) | WisdomTree India Earnings Fund ETF | EPI |
+| 37 | 68 | $14.82 | [Chart](https://www.tradingview.com/chart/?symbol=RYLD) | Global X Russell 2000 Covered Call ETF | RYLD |
+| 34 | 67 | $55.78 | [Chart](https://www.tradingview.com/chart/?symbol=ALRM) | Alarm.com Holdings, Inc. | ALRM |
+| 38 | 65 | $147.42 | [Chart](https://www.tradingview.com/chart/?symbol=QCOM) | Qualcomm Inc | QCOM |
 
 ## **Methodology**
 
